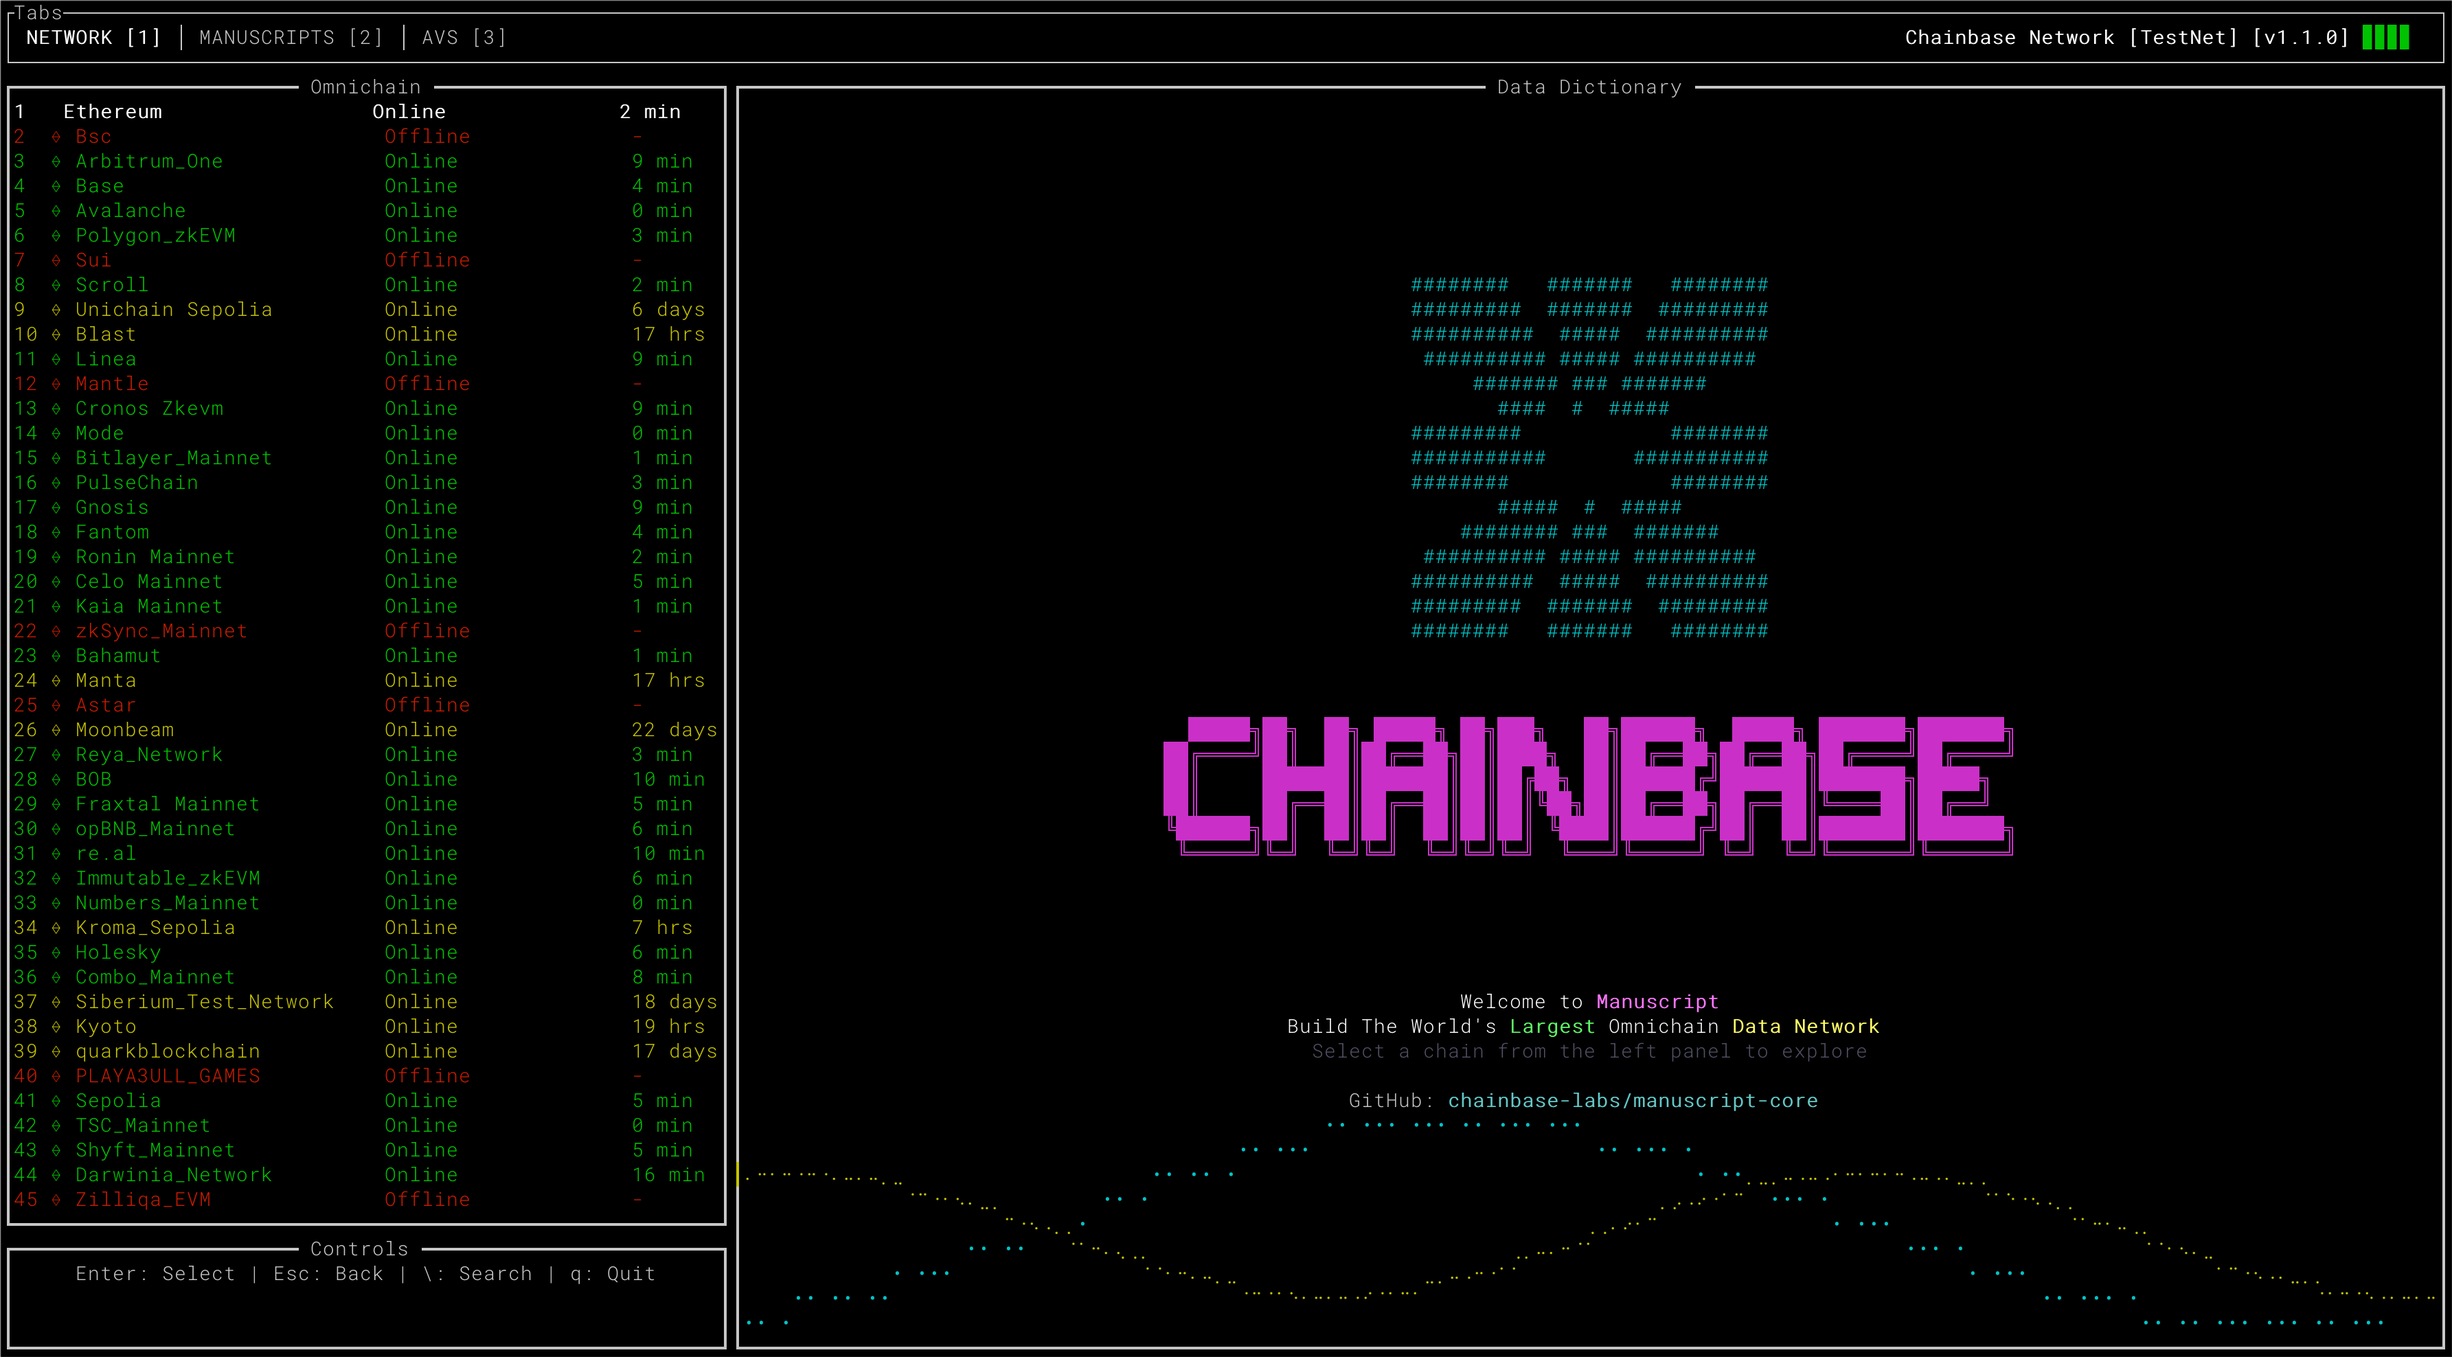
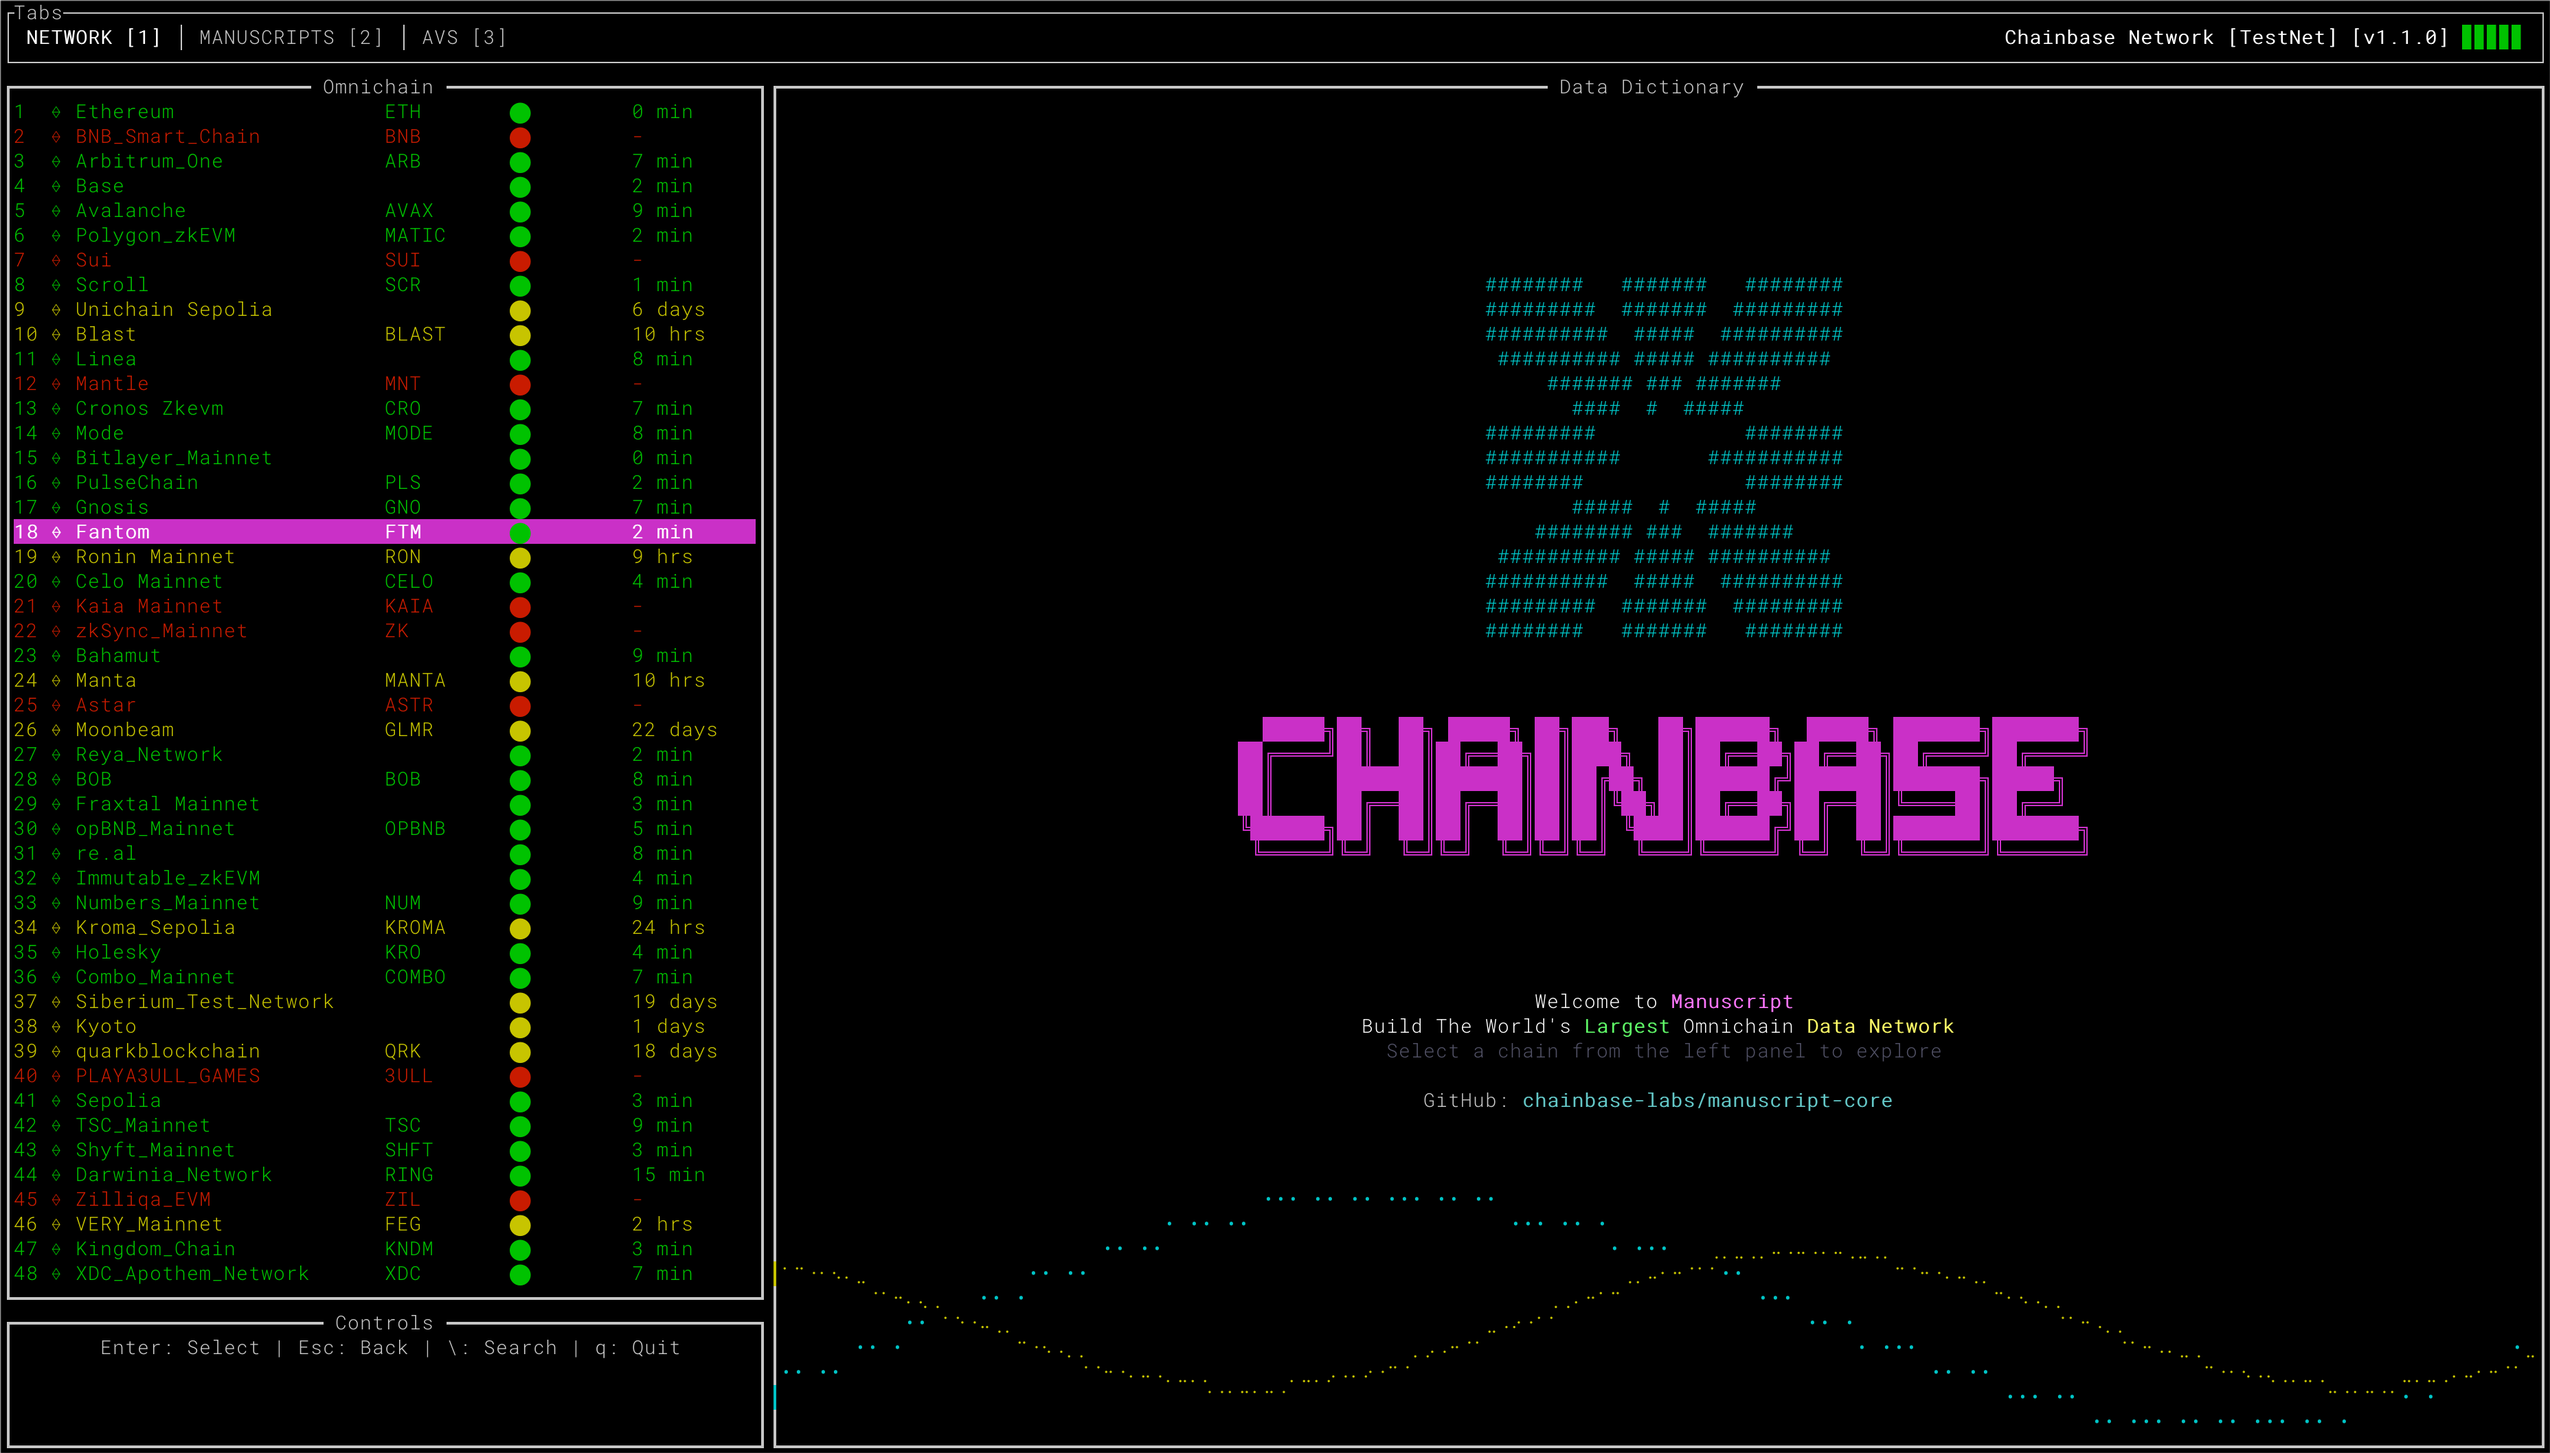
✨ feat: modify the chain display page to add ticker (#57)
* ✨ feat: Modify the chain display page to add ticker

diff --git a/gui/src/ui.rs b/gui/src/ui.rs
@@ -104,9 +104,17 @@ pub fn draw(frame: &mut ratatui::Frame, app: &mut App) {
 
                     let content = if is_selected {
                         Line::from(vec![
-                            format!("{:<3} {:<25}", index, chain.name).bold().white().into(),
-                            format!("{:<20}", chain.status).bold().into(),
-                            format!("{:<10}", time_ago_style).bold().into(),
+                            format!("{:<3}⟠ {:<25}", index, chain.name).bold().white().bg(Color::Magenta).into(),
+                            format!("{:<10}", chain.ticker).bold().white().bg(Color::Magenta).into(),
+                            format!("{:<10}", if chain.status == "Online" { "⬤" } else if chain.status == "Offline" { "⬤" } else { "◑" }).bold()
+                                .style(if chain.status == "Online" && chain.time_ago.contains("min") { 
+                                    Style::default().fg(Color::Green).bg(Color::Magenta)
+                                } else if chain.status == "Offline" {
+                                    Style::default().fg(Color::Red).bg(Color::Magenta)
+                                } else { 
+                                    Style::default().fg(Color::Yellow).bg(Color::Magenta)
+                                }).into(),
+                            format!("{:<10}", time_ago_style).bold().bg(Color::Magenta).into(),
                         ])
                     } else {
                         Line::from(vec![
@@ -118,7 +126,15 @@ pub fn draw(frame: &mut ratatui::Frame, app: &mut App) {
                                 } else { 
                                     Style::default().fg(Color::Yellow) 
                                 }).into(),
-                            format!("{:<20}", chain.status).bold()
+                            format!("{:<10}", chain.ticker).bold()
+                                .style(if chain.status == "Online" && chain.time_ago.contains("min") { 
+                                    Style::default().fg(Color::Green)
+                                } else if chain.status == "Offline" {
+                                    Style::default().fg(Color::Red)
+                                } else { 
+                                    Style::default().fg(Color::Yellow) 
+                                }).into(),
+                            format!("{:<10}", if chain.status == "Online" { "⬤" } else if chain.status == "Offline" { "⬤" } else { "◑" }).bold()
                                 .style(if chain.status == "Online" && chain.time_ago.contains("min") { 
                                     Style::default().fg(Color::Green)
                                 } else if chain.status == "Offline" {
@@ -151,16 +167,21 @@ pub fn draw(frame: &mut ratatui::Frame, app: &mut App) {
                         .map(|(i, table_name)| {
                             let content = if Some(i) == app.selected_table_index {
                                 Line::from(vec![
-                                    format!("{:<1}-> ", i + 1).bold().green(),
-                                    format!("{}.{}", selected_chain.databaseName, table_name).bold().green()
+                                    format!("{:<1}-> ", i + 1).bold().white(),
+                                    format!("{}.{}", selected_chain.databaseName, table_name).bold().white()
                                 ])
                             } else {
                                 Line::from(vec![
-                                    format!("{:<1}-", i + 1).white(),
-                                    format!("{}.{}", selected_chain.databaseName, table_name).into()
+                                    format!("{:<1}-", i + 1).green(),
+                                    format!("{}.{}", selected_chain.databaseName, table_name).green()
                                 ])
                             };
-                            ListItem::new(content)
+                            let style = if Some(i) == app.selected_table_index {
+                                Style::default().bg(Color::Magenta)
+                            } else {
+                                Style::default()
+                            };
+                            ListItem::new(content).style(style)
                         })
                         .collect();
 

diff --git a/gui/src/app.rs b/gui/src/app.rs
@@ -205,6 +205,7 @@ pub struct Column {
 pub struct Chain {
     pub name: String,
     pub status: String,
+    pub ticker: String,
     pub lastUpdate: String,
     pub time_ago: String,
     pub databaseName: String,
@@ -348,6 +349,7 @@ impl App {
                         
                         Chain {
                             name: graph_data.chain.name,
+                            ticker: graph_data.chain.ticker,
                             status: graph_data.chain.status,
                             lastUpdate: graph_data.chain.lastUpdate,
                             databaseName: graph_data.chain.databaseName,
@@ -1302,6 +1304,7 @@ struct GraphData {
 #[derive(Debug, Deserialize)]
 struct ChainData {
     name: String,
+    ticker: String,
     status: String,
     lastUpdate: String,
     databaseName: String,
